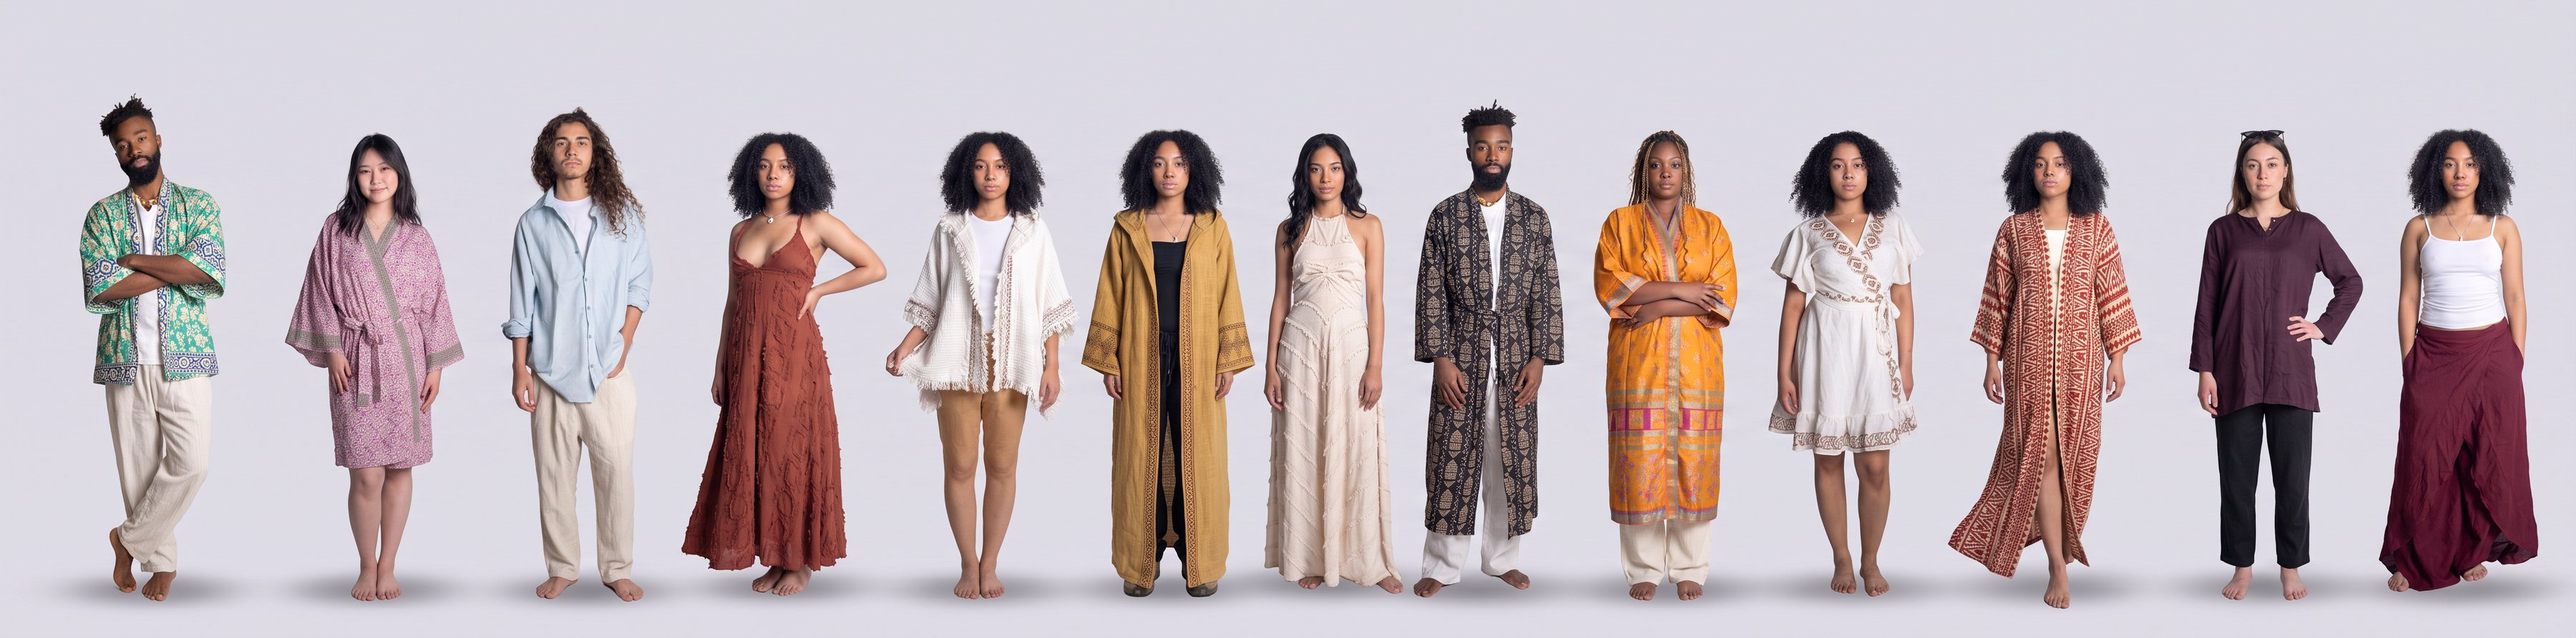
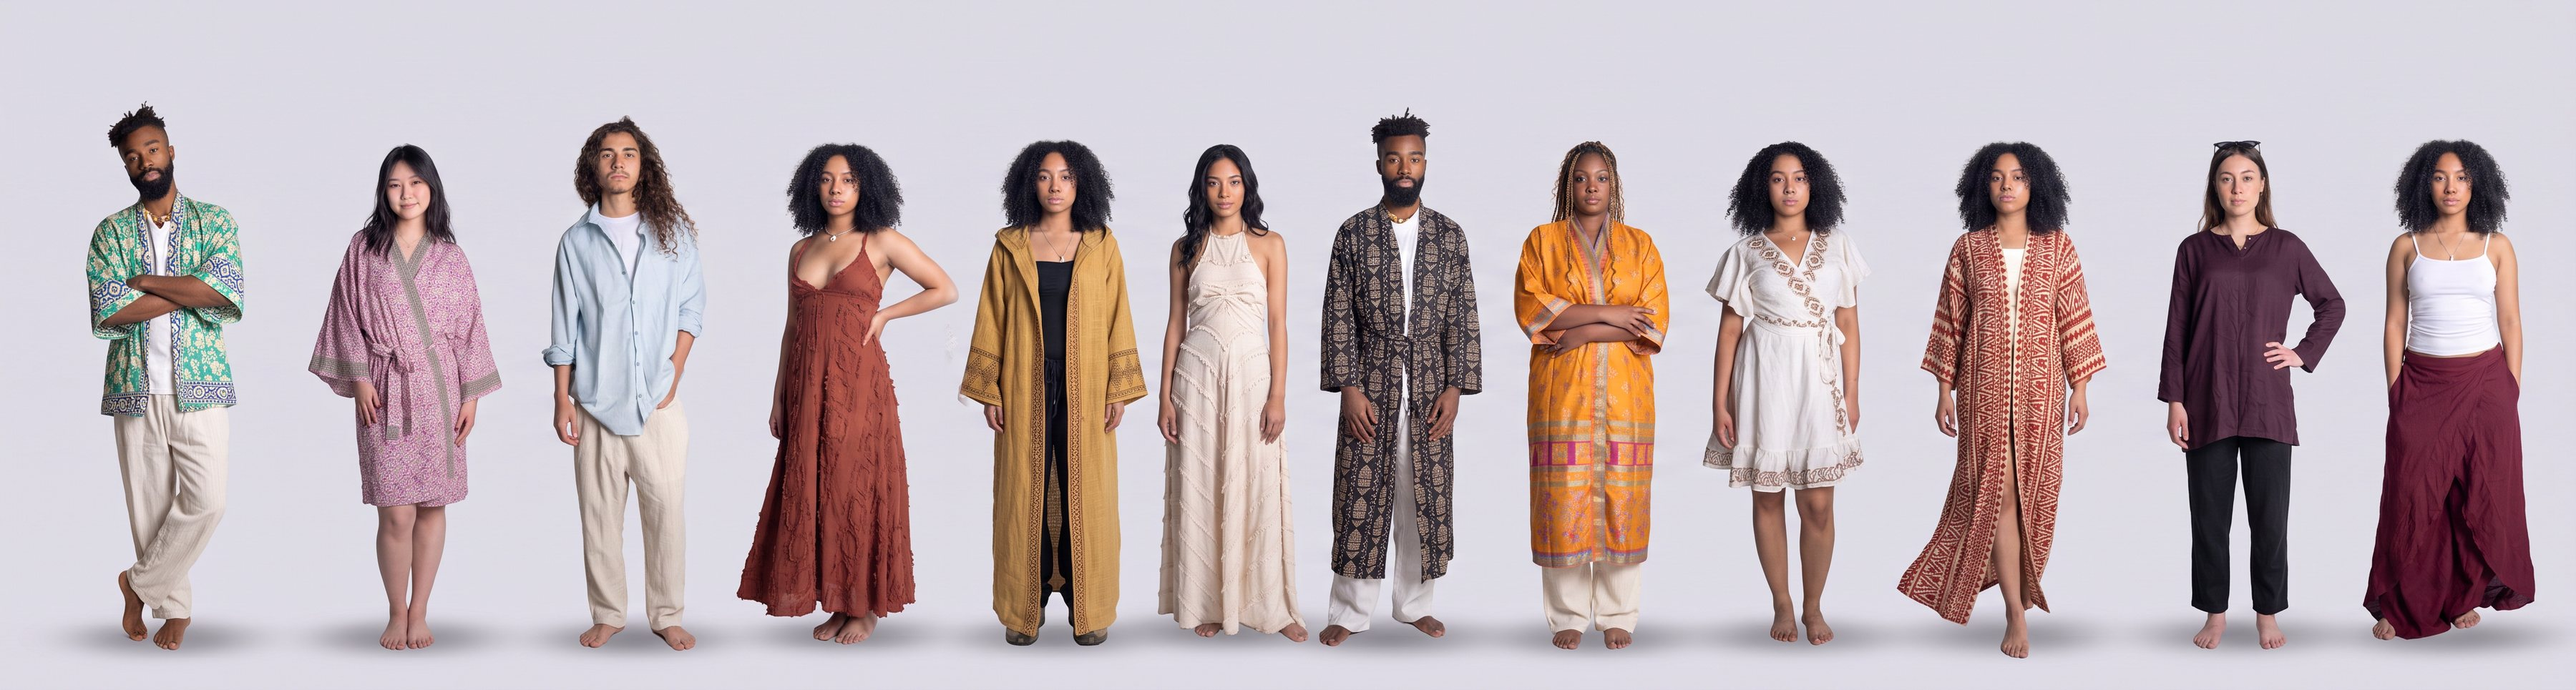
Try the look: Ektava removed from the lineup photo
Claude-Session: https://claude.ai/code/session_01Qk4KSMFAfZcTrR3KUdsS9s

diff --git a/artifact.html b/artifact.html
@@ -1668,7 +1668,7 @@ img,video,svg{display:block}
 .tl-fig img{width:100%;height:100%;display:block;pointer-events:none}
 .tl-fig.on{cursor:zoom-in}
 .tl-bar{position:relative;z-index:30;padding:0 var(--pad) clamp(22px,4vh,34px);display:grid;grid-template-columns:1fr auto;gap:14px 30px;align-items:end}
-.tl-prog{grid-column:1/-1;display:grid;grid-template-columns:repeat(13,1fr);gap:4px}
+.tl-prog{grid-column:1/-1;display:grid;grid-template-columns:repeat(12,1fr);gap:4px}
 .tl-prog i{height:2px;background:var(--hair);overflow:hidden}
 .tl-prog b{display:block;height:100%;width:0;background:var(--sink)}
 .tl-prog .done b{width:100%}
@@ -3232,7 +3232,7 @@ img,video,svg{display:block}
 
   /* ---------- try the look: eight models in one studio, a lineup that glides ---------- */
   // left to right as they stand in the one studio photograph; sx is each person's centre across that photo
-  var LOOKS = [{h:'surya',sx:5.4,x:57,y:40},{h:'padma',sx:14.8,x:51,y:42},{h:'satya',sx:22.4,x:52,y:40},{h:'qing',sx:30.3,x:50,y:44},{h:'ekatva',sx:38.5,x:50,y:38},{h:'yugen',sx:45.5,x:57,y:44},{h:'dolma',sx:51.5,x:50,y:42},{h:'maitri',sx:57.8,x:50,y:40},{h:'mani',sx:64.6,x:50,y:47},{h:'milarepa',sx:71.7,x:50,y:40},{h:'hikari',sx:79.8,x:57,y:46},{h:'indra',sx:87.9,x:50,y:38},{h:'yun',sx:95.6,x:46,y:66}];
+  var LOOKS = [{h:'surya',sx:5.8,x:57,y:40},{h:'padma',sx:16.0,x:51,y:42},{h:'satya',sx:24.2,x:52,y:40},{h:'qing',sx:32.8,x:50,y:44},{h:'yugen',sx:41.1,x:57,y:44},{h:'dolma',sx:47.6,x:50,y:42},{h:'maitri',sx:54.4,x:50,y:40},{h:'mani',sx:61.7,x:50,y:47},{h:'milarepa',sx:69.4,x:50,y:40},{h:'hikari',sx:78.2,x:57,y:46},{h:'indra',sx:86.9,x:50,y:38},{h:'yun',sx:95.2,x:46,y:66}];
   var tl = { i:0, t:0, paused:false, dur:5200 }, tlStage = $('tlStage');
   // two copies of the same photo: one soft (the room), one sharp and masked to the person in front
   // both copies live in one rig, and only the rig moves, so they can never drift apart
@@ -3240,7 +3240,7 @@ img,video,svg{display:block}
     + '<div class="tl-cam tl-sharp"><img src="media/look/scene.jpg" alt="Eight Vagari Vati looks in one studio" draggable="false" decoding="async"></div></div>';
   $('tlProg').innerHTML = LOOKS.map(function(){ return '<i><b></b></i>'; }).join('');
   var tlRig = tlStage.querySelector('.tl-rig'), tlCams = [].slice.call(tlStage.querySelectorAll('.tl-cam')), tlSharp = tlStage.querySelector('.tl-sharp'), tlBars = [].slice.call($('tlProg').children);
-  var SCN = 3600 / 893, G = {}, camX = 0;   // the photo's width over its height; the camera's current position
+  var SCN = 3600 / 965, G = {}, camX = 0;   // the photo's width over its height; the camera's current position
   var EASE_OUT = 'cubic-bezier(.16,1,.3,1)', EASE_GLIDE = 'cubic-bezier(.65,0,.35,1)';
   function tlGeo(){
     var sh = tlStage.clientHeight, sw = tlStage.clientWidth, ih = sh * (narrow.matches ? 1.05 : 1.0), iw = ih * SCN;

diff --git a/index.html b/index.html
@@ -1673,7 +1673,7 @@ img,video,svg{display:block}
 .tl-fig img{width:100%;height:100%;display:block;pointer-events:none}
 .tl-fig.on{cursor:zoom-in}
 .tl-bar{position:relative;z-index:30;padding:0 var(--pad) clamp(22px,4vh,34px);display:grid;grid-template-columns:1fr auto;gap:14px 30px;align-items:end}
-.tl-prog{grid-column:1/-1;display:grid;grid-template-columns:repeat(13,1fr);gap:4px}
+.tl-prog{grid-column:1/-1;display:grid;grid-template-columns:repeat(12,1fr);gap:4px}
 .tl-prog i{height:2px;background:var(--hair);overflow:hidden}
 .tl-prog b{display:block;height:100%;width:0;background:var(--sink)}
 .tl-prog .done b{width:100%}
@@ -3239,7 +3239,7 @@ img,video,svg{display:block}
 
   /* ---------- try the look: eight models in one studio, a lineup that glides ---------- */
   // left to right as they stand in the one studio photograph; sx is each person's centre across that photo
-  var LOOKS = [{h:'surya',sx:5.4,x:57,y:40},{h:'padma',sx:14.8,x:51,y:42},{h:'satya',sx:22.4,x:52,y:40},{h:'qing',sx:30.3,x:50,y:44},{h:'ekatva',sx:38.5,x:50,y:38},{h:'yugen',sx:45.5,x:57,y:44},{h:'dolma',sx:51.5,x:50,y:42},{h:'maitri',sx:57.8,x:50,y:40},{h:'mani',sx:64.6,x:50,y:47},{h:'milarepa',sx:71.7,x:50,y:40},{h:'hikari',sx:79.8,x:57,y:46},{h:'indra',sx:87.9,x:50,y:38},{h:'yun',sx:95.6,x:46,y:66}];
+  var LOOKS = [{h:'surya',sx:5.8,x:57,y:40},{h:'padma',sx:16.0,x:51,y:42},{h:'satya',sx:24.2,x:52,y:40},{h:'qing',sx:32.8,x:50,y:44},{h:'yugen',sx:41.1,x:57,y:44},{h:'dolma',sx:47.6,x:50,y:42},{h:'maitri',sx:54.4,x:50,y:40},{h:'mani',sx:61.7,x:50,y:47},{h:'milarepa',sx:69.4,x:50,y:40},{h:'hikari',sx:78.2,x:57,y:46},{h:'indra',sx:86.9,x:50,y:38},{h:'yun',sx:95.2,x:46,y:66}];
   var tl = { i:0, t:0, paused:false, dur:5200 }, tlStage = $('tlStage');
   // two copies of the same photo: one soft (the room), one sharp and masked to the person in front
   // both copies live in one rig, and only the rig moves, so they can never drift apart
@@ -3247,7 +3247,7 @@ img,video,svg{display:block}
     + '<div class="tl-cam tl-sharp"><img src="media/look/scene.jpg" alt="Eight Vagari Vati looks in one studio" draggable="false" decoding="async"></div></div>';
   $('tlProg').innerHTML = LOOKS.map(function(){ return '<i><b></b></i>'; }).join('');
   var tlRig = tlStage.querySelector('.tl-rig'), tlCams = [].slice.call(tlStage.querySelectorAll('.tl-cam')), tlSharp = tlStage.querySelector('.tl-sharp'), tlBars = [].slice.call($('tlProg').children);
-  var SCN = 3600 / 893, G = {}, camX = 0;   // the photo's width over its height; the camera's current position
+  var SCN = 3600 / 965, G = {}, camX = 0;   // the photo's width over its height; the camera's current position
   var EASE_OUT = 'cubic-bezier(.16,1,.3,1)', EASE_GLIDE = 'cubic-bezier(.65,0,.35,1)';
   function tlGeo(){
     var sh = tlStage.clientHeight, sw = tlStage.clientWidth, ih = sh * (narrow.matches ? 1.05 : 1.0), iw = ih * SCN;

diff --git a/src/app.js b/src/app.js
@@ -1005,7 +1005,7 @@
 
   /* ---------- try the look: eight models in one studio, a lineup that glides ---------- */
   // left to right as they stand in the one studio photograph; sx is each person's centre across that photo
-  var LOOKS = [{h:'surya',sx:5.4,x:57,y:40},{h:'padma',sx:14.8,x:51,y:42},{h:'satya',sx:22.4,x:52,y:40},{h:'qing',sx:30.3,x:50,y:44},{h:'ekatva',sx:38.5,x:50,y:38},{h:'yugen',sx:45.5,x:57,y:44},{h:'dolma',sx:51.5,x:50,y:42},{h:'maitri',sx:57.8,x:50,y:40},{h:'mani',sx:64.6,x:50,y:47},{h:'milarepa',sx:71.7,x:50,y:40},{h:'hikari',sx:79.8,x:57,y:46},{h:'indra',sx:87.9,x:50,y:38},{h:'yun',sx:95.6,x:46,y:66}];
+  var LOOKS = [{h:'surya',sx:5.8,x:57,y:40},{h:'padma',sx:16.0,x:51,y:42},{h:'satya',sx:24.2,x:52,y:40},{h:'qing',sx:32.8,x:50,y:44},{h:'yugen',sx:41.1,x:57,y:44},{h:'dolma',sx:47.6,x:50,y:42},{h:'maitri',sx:54.4,x:50,y:40},{h:'mani',sx:61.7,x:50,y:47},{h:'milarepa',sx:69.4,x:50,y:40},{h:'hikari',sx:78.2,x:57,y:46},{h:'indra',sx:86.9,x:50,y:38},{h:'yun',sx:95.2,x:46,y:66}];
   var tl = { i:0, t:0, paused:false, dur:5200 }, tlStage = $('tlStage');
   // two copies of the same photo: one soft (the room), one sharp and masked to the person in front
   // both copies live in one rig, and only the rig moves, so they can never drift apart
@@ -1013,7 +1013,7 @@
     + '<div class="tl-cam tl-sharp"><img src="media/look/scene.jpg" alt="Eight Vagari Vati looks in one studio" draggable="false" decoding="async"></div></div>';
   $('tlProg').innerHTML = LOOKS.map(function(){ return '<i><b></b></i>'; }).join('');
   var tlRig = tlStage.querySelector('.tl-rig'), tlCams = [].slice.call(tlStage.querySelectorAll('.tl-cam')), tlSharp = tlStage.querySelector('.tl-sharp'), tlBars = [].slice.call($('tlProg').children);
-  var SCN = 3600 / 893, G = {}, camX = 0;   // the photo's width over its height; the camera's current position
+  var SCN = 3600 / 965, G = {}, camX = 0;   // the photo's width over its height; the camera's current position
   var EASE_OUT = 'cubic-bezier(.16,1,.3,1)', EASE_GLIDE = 'cubic-bezier(.65,0,.35,1)';
   function tlGeo(){
     var sh = tlStage.clientHeight, sw = tlStage.clientWidth, ih = sh * (narrow.matches ? 1.05 : 1.0), iw = ih * SCN;

diff --git a/src/styles.css b/src/styles.css
@@ -1662,7 +1662,7 @@ img,video,svg{display:block}
 .tl-fig img{width:100%;height:100%;display:block;pointer-events:none}
 .tl-fig.on{cursor:zoom-in}
 .tl-bar{position:relative;z-index:30;padding:0 var(--pad) clamp(22px,4vh,34px);display:grid;grid-template-columns:1fr auto;gap:14px 30px;align-items:end}
-.tl-prog{grid-column:1/-1;display:grid;grid-template-columns:repeat(13,1fr);gap:4px}
+.tl-prog{grid-column:1/-1;display:grid;grid-template-columns:repeat(12,1fr);gap:4px}
 .tl-prog i{height:2px;background:var(--hair);overflow:hidden}
 .tl-prog b{display:block;height:100%;width:0;background:var(--sink)}
 .tl-prog .done b{width:100%}
